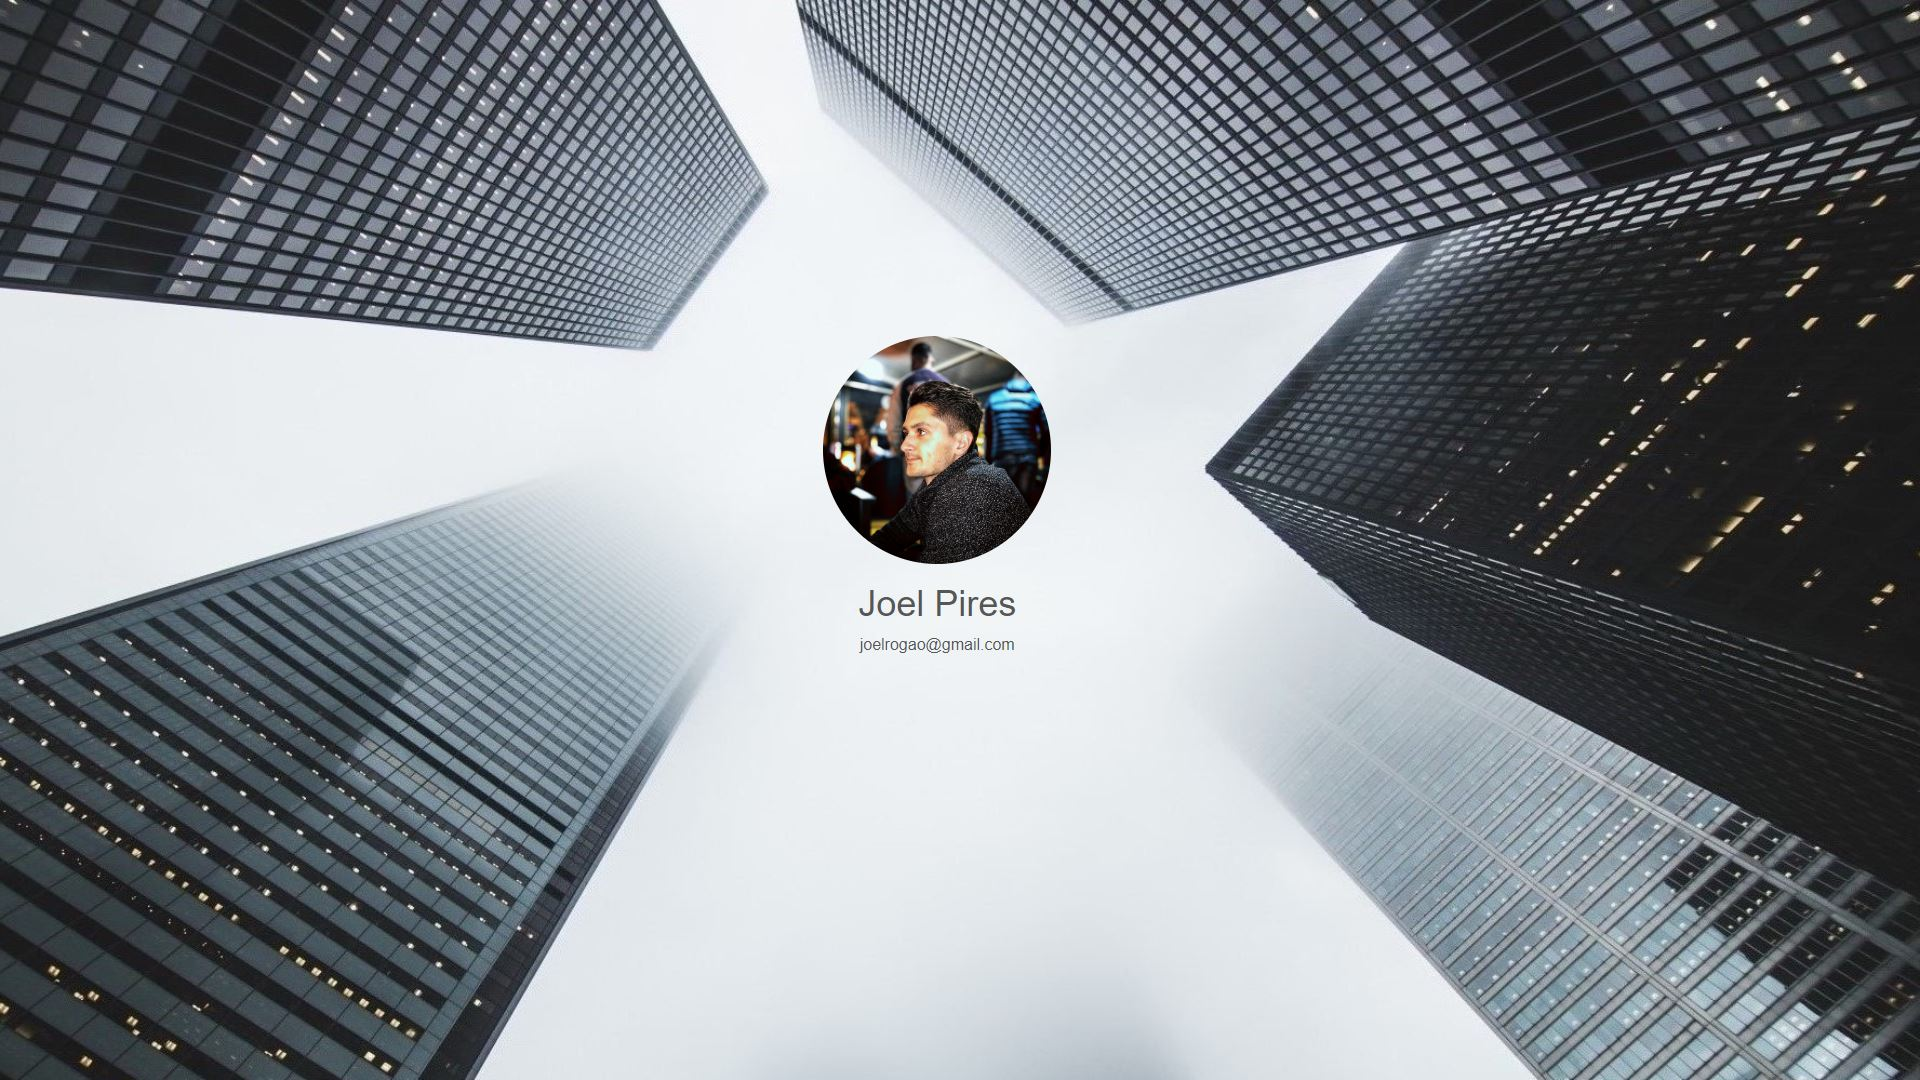
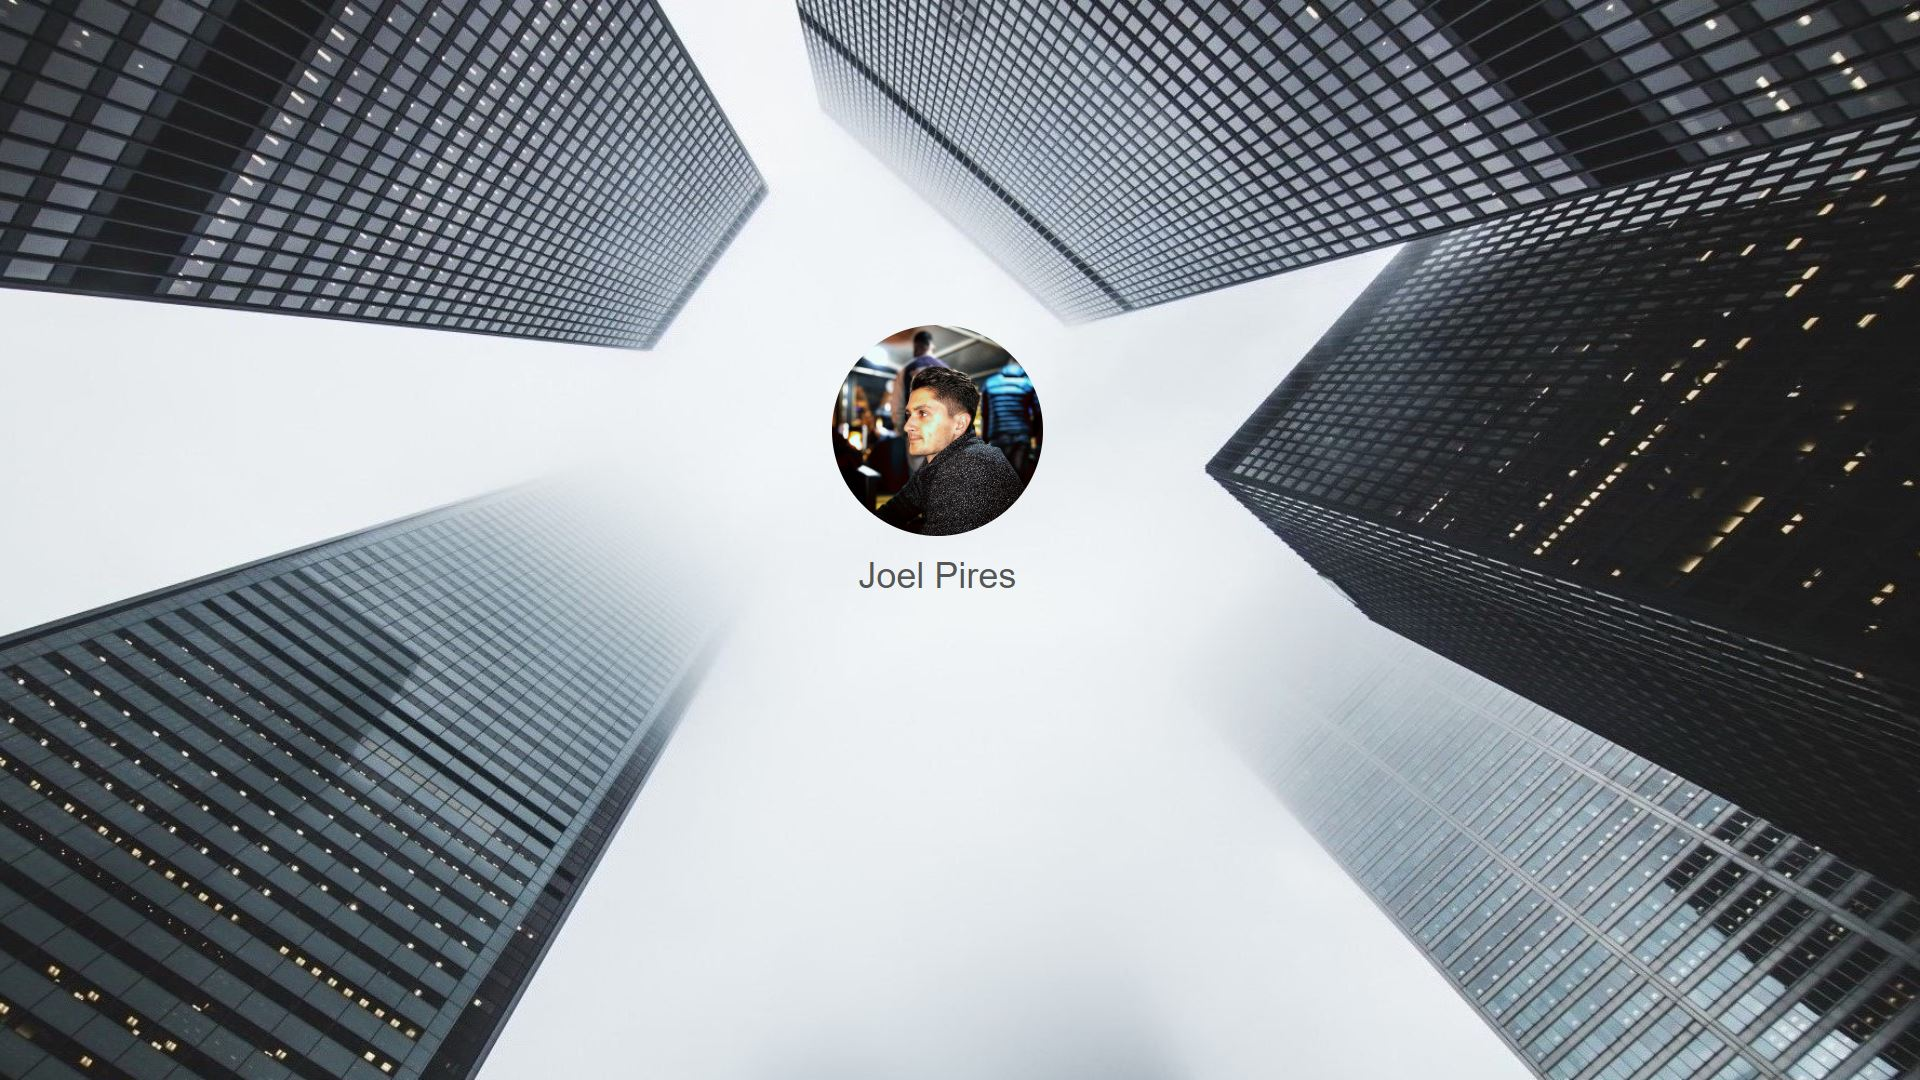
ad

Changed region(s): [[0.4062, 0.275, 0.5625, 0.6111], [0.4688, 0.0, 0.5312, 0.0306]]

diff --git a/index.html b/index.html
@@ -14,37 +14,32 @@
 </head>
 
 <body class="bg" data-gr-c-s-loaded="true" data-pt-ext-theme="dark" data-pt-ext-size="standard" style="margin: 0px;
-background: url(files/background_1.JPG) no-repeat center center fixed; 
+background: url(files/background_1.JPG) no-repeat center center fixed;
 -webkit-background-size: cover;
 -moz-background-size: cover;
 -o-background-size: cover;
 background-size: cover;
 "background="background_1.JPG">
-    <div class="container">
-        <div class="wrapper">
-            <div style="position:absolute;right:16%;bottom:6%;width:67%" class="links">
-                <div class="info" id="links" style="position:relative; text-align: center;font-size:100%;margin-bottom: -4.7%;">
-                    <p>Machine Learning Engineer currently living in Vancouver, BC.</p>
-                    <p>I have a strong interest in data mining and machine learning algorithms.</p>
-                    <p>MSc. in Artificial Intelligence and former AI Researcher at <a target="_blank" href="https://www.cisuc.uc.pt//">CISUC Laboratories</a>.</p>
-                </div>
-
-            </div>
-            <div style="position:absolute;right:16%;bottom:1%;width:67%" class="links">
-            <a style="margin-left: 2%;" target="_blank" href="https://www.linkedin.com/in/joel-pires-7919b9102/"><img src="./files/linkedin.png" id="linkedin" title="LinkedIn"></a>
-            <a target="_blank" href="https://github.com/joelpires" title="Github"><img src="./files/github.png"></a>
-            <a target="_blank" href="https://kaggle.com/joelpires" title="Kaggle"><img src="./files/kaggle.png"></a>
-            <a target="_blank" href="https://leetcode.com/joelpires" title="Leetcode"><img src="./files/leetcode.png"></a>
-            <a target="_blank" href="https://scholar.google.com/citations?user=Nd-bzfsAAAAJ&hl=en" title="Google Scholar"><img src="./files/google_scholar.png"></a>
-            <a target="_blank" href="https://medium.com/@joelpires" title="Medium"><img src="./files/medium.png"></a>
-            <a target="_blank" href="https://www.quora.com/profile/Joel-Pires-3" title="Quora"><img src="./files/quora.png"></a>
-            <a target="_blank" href="https://stackexchange.com/users/10408288/joelpires?tab=accounts" title="Stack Exchange"><img src="./files/stack_exchange.png"></a>
-            <a target="_blank" href="https://angel.co/joelpires" title="Angelist"><img src="./files/angelist.PNG"></a>
-
-
-            </div>
+        <div style="position:absolute; width:100%; bottom:5%; text-align:center; font-size:95%" class="info" id="links" >
+            <p>Machine Learning Engineer currently living in Vancouver, BC.</p>
+            <p>I have a strong interest in data mining and machine learning algorithms.</p>
+            <p>MSc. in Artificial Intelligence and former AI Researcher at <a target="_blank" href="https://www.cisuc.uc.pt//">CISUC Laboratories</a>.</p>
         </div>
-    </div>
+
+
+        <div style="position:absolute;  bottom:1%; text-align:center;"  class="links">
+        <a target="_blank" href="https://www.linkedin.com/in/joel-pires-7919b9102/"><img src="./files/linkedin.png" id="linkedin" title="LinkedIn"></a>
+        <a target="_blank" href="https://github.com/joelpires" title="Github"><img src="./files/github.png"></a>
+        <a target="_blank" href="https://kaggle.com/joelpires" title="Kaggle"><img src="./files/kaggle.png"></a>
+        <a target="_blank" href="https://leetcode.com/joelpires" title="Leetcode"><img src="./files/leetcode.png"></a>
+        <a target="_blank" href="https://scholar.google.com/citations?user=Nd-bzfsAAAAJ&hl=en" title="Google Scholar"><img src="./files/google_scholar.png"></a>
+        <a target="_blank" href="https://medium.com/@joelpires" title="Medium"><img src="./files/medium.png"></a>
+        <a target="_blank" href="https://www.quora.com/profile/Joel-Pires-3" title="Quora"><img src="./files/quora.png"></a>
+        <a target="_blank" href="https://stackexchange.com/users/10408288/joelpires?tab=accounts" title="Stack Exchange"><img src="./files/stack_exchange.png"></a>
+        <a target="_blank" href="https://angel.co/joelpires" title="Angelist"><img src="./files/angelist.PNG"></a>
+        <a target="_blank" href="mailto:joelrogao@gmail.com" title="email"><img src="./files/email.png"></a>
+        </div>
+
 
 </body>
 

diff --git a/files/style.css b/files/style.css
@@ -61,11 +61,12 @@ a:visited{
 }
 
 .links {
-	text-align: center;
+    position:absolute;
 }
 
 .links a img{
-	width: 4%;
-	height: 4%;
-	margin-right: 2%
+	width: 2.5%;
+	height: 2.5%;
+	margin-right: 1%
+
 }
